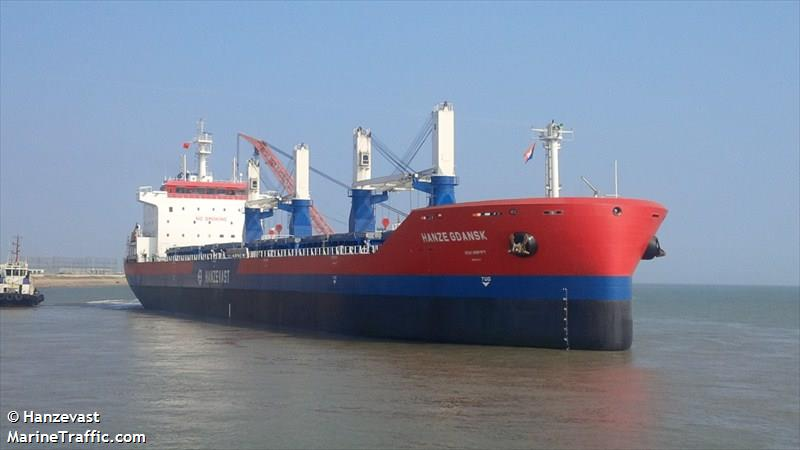
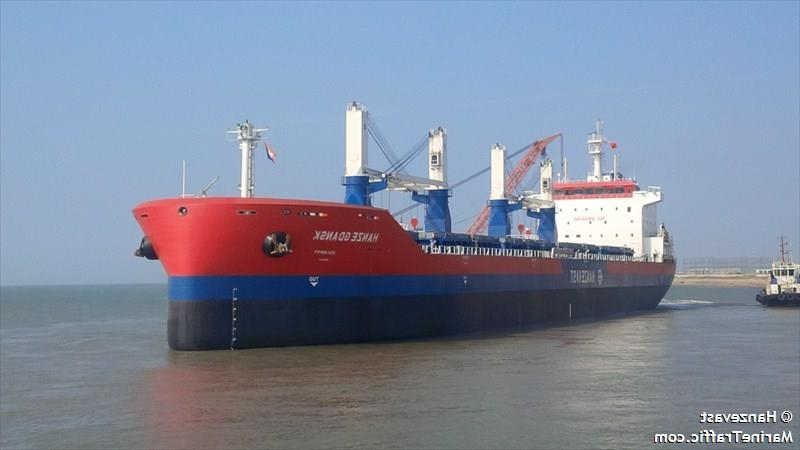
Mid version.

diff --git a/TSQL/TSQL/MainWindow.xaml b/TSQL/TSQL/MainWindow.xaml
@@ -5,47 +5,201 @@
         xmlns:mc="http://schemas.openxmlformats.org/markup-compatibility/2006"
         xmlns:local="clr-namespace:TSQL"
         mc:Ignorable="d"
-        Title="MainWindow" Height="450" Width="800">
+        Title="GDAŃSK - Nowy Port" Height="450" Width="800" Background="#FFB1C4DE" ResizeMode="NoResize">
     <Window.Resources>
         <BitmapImage x:Key="VeselBmp" UriSource="vessel.jpg"/>
+        <BitmapImage x:Key="VeselBackBmp" UriSource="ship.jpg"/>
+        <!--<x:Array Type="BitmapImage" x:Key="BitmapTab" xmlns:x="http://schemas.microsoft.com/winfx/2006/xaml" xmlns:sys="clr-namespace:System;assembly=mscorlib">
+            <BitmapImage UriSource="vessel.jpg"/>
+        </x:Array>
+        <Image x:Key="VeselImg" Source="vessel.jpg"/>
+        <x:Array Type="Image" x:Key="ImageTab">
+            <Image Source="vessel.jpg"/>
+        </x:Array>-->
+        <local:LeftMarginConverter x:Key="LeftMarginConverter" />
+        <local:OpacityConverter x:Key="OpacityConverter" />
+        <!--<local:LeftMarginBackConverter x:Key="LeftMarginBackConverter" />-->
     </Window.Resources>
-    <!--<Grid Margin="0,1,0,-1">-->
-    <!--<DataGrid Name="g1" AutoGenerateColumns="false">
+    <Grid Margin="1,1,1,1">
+        <!--<DataGrid Name="g1" AutoGenerateColumns="false">
             <DataGrid.Columns>
                 <DataGridTextColumn Binding="{Binding Id}" Header="Id" Width="100"/>
             </DataGrid.Columns>
         </DataGrid>-->
-    <!--</Grid>-->
-    <!--<StackPanel>
-        <Slider IsSnapToTickEnabled="true" TickFrequency="5" Name="Percent" Minimum="0" Maximum="100"/>
-        <TextBox Name="PercentText" Width="50" Text="{Binding ElementName=Percent, Path=Value, Mode=TwoWay}"/>
-    </StackPanel>-->
-    <Grid Margin="1,1,1,1">
-        <StackPanel>
-            <Slider IsSnapToTickEnabled="true" TickFrequency="0.1" Name="Percent" Minimum="0" Maximum="1"/>
-            <TextBox Name="PercentText" Width="50" Text="{Binding ElementName=Percent, Path=Value, Mode=TwoWay}"/>
-            <Button Name="DayBtn" Width="100" Height="30">
-                <Button.Triggers>
-                    <EventTrigger RoutedEvent="Button.MouseEnter">
-                        <BeginStoryboard>
-                            <Storyboard>
-                                <DoubleAnimation
+        <Viewport3D Margin="{Binding ElementName=Percent, Path=Value, Converter={StaticResource LeftMarginConverter}}">
+            <ModelVisual3D>
+                <ModelVisual3D.Content>
+                    <Model3DGroup>
+                        <!-- Lights -->
+                        <AmbientLight Color="White" />
+
+                        <!-- The image -->
+                        <GeometryModel3D>
+                            <GeometryModel3D.Geometry>
+                                <MeshGeometry3D
+                            Positions="0,-1,0 2,-1,0 2,1,0 0,1,0"
+                            TriangleIndices="0,1,2 2,3,0"
+                            TextureCoordinates="0,1 1,1 1,0 0,0"
+                        >
+                                </MeshGeometry3D>
+                            </GeometryModel3D.Geometry>
+                            <GeometryModel3D.Material>
+                                <DiffuseMaterial x:Name="texture">
+                                    <DiffuseMaterial.Brush>
+                                        <ImageBrush ImageSource="vessel.jpg"/>
+                                    </DiffuseMaterial.Brush>
+                                </DiffuseMaterial>
+                            </GeometryModel3D.Material>
+                            <GeometryModel3D.Transform>
+                                <RotateTransform3D>
+                                    <RotateTransform3D.Rotation>
+                                        <AxisAngleRotation3D Axis="0,1,0" Angle="{Binding ElementName=Percent, Path=Value}"/>
+                                    </RotateTransform3D.Rotation>
+                                </RotateTransform3D>
+                            </GeometryModel3D.Transform>
+                        </GeometryModel3D>
+                    </Model3DGroup>
+                </ModelVisual3D.Content>
+            </ModelVisual3D>
+
+            <Viewport3D.Camera>
+                <PerspectiveCamera
+            Position = "0, 0, 3.5"
+            LookDirection = "0, 0, -1"
+            UpDirection = "0, 1, 0"
+            FieldOfView = "60">
+                </PerspectiveCamera>
+            </Viewport3D.Camera>
+        </Viewport3D>
+        <Viewport3D>
+            <ModelVisual3D>
+                <ModelVisual3D.Content>
+                    <Model3DGroup>
+                        <!-- Lights -->
+                        <AmbientLight Color="White" />
+
+                        <!-- The image -->
+                        <GeometryModel3D>
+                            <GeometryModel3D.Geometry>
+                                <MeshGeometry3D
+                            Positions="0,-1,0 2,-1,0 2,1,0 0,1,0"
+                            TriangleIndices="0,1,2 2,3,0"
+                            TextureCoordinates="0,1 1,1 1,0 0,0"
+                        >
+                                </MeshGeometry3D>
+                            </GeometryModel3D.Geometry>
+                            <GeometryModel3D.Material>
+                                <DiffuseMaterial>
+                                    <DiffuseMaterial.Brush>
+                                        <ImageBrush ImageSource="{StaticResource VeselBackBmp}"/>
+                                    </DiffuseMaterial.Brush>
+                                </DiffuseMaterial>
+                            </GeometryModel3D.Material>
+                            <GeometryModel3D.Transform>
+                                <RotateTransform3D>
+                                    <RotateTransform3D.Rotation>
+                                        <AxisAngleRotation3D Axis="0,1,0" Angle="{Binding ElementName=PercentBack, Path=Value}"/>
+                                    </RotateTransform3D.Rotation>
+                                </RotateTransform3D>
+                            </GeometryModel3D.Transform>
+                        </GeometryModel3D>
+                    </Model3DGroup>
+                </ModelVisual3D.Content>
+            </ModelVisual3D>
+
+            <Viewport3D.Camera>
+                <PerspectiveCamera
+            Position = "0, 0, 3.5"
+            LookDirection = "0, 0, -1"
+            UpDirection = "0, 1, 0"
+            FieldOfView = "60">
+                </PerspectiveCamera>
+            </Viewport3D.Camera>
+        </Viewport3D>
+        <Slider Visibility="Hidden" IsSnapToTickEnabled="true" TickFrequency="0.1" Name="Percent" Minimum="0" Maximum="90"/>
+        <Slider Visibility="Hidden" Margin="0,100,0,0" Value="0" IsSnapToTickEnabled="true" TickFrequency="0.1" Name="PercentBack" Minimum="0" Maximum="90"/>
+        <TextBox Name="PercentText" Width="1" Text="{Binding ElementName=Percent, Path=Value, Mode=TwoWay}"/>
+        <Button Visibility="Hidden" Name="DayBtn" Width="100" Height="30">
+            Animate
+            <Button.Triggers>
+                <EventTrigger RoutedEvent="Button.Click">
+                    <BeginStoryboard>
+                        <Storyboard>
+                            <DoubleAnimation
                                     Storyboard.TargetName="Percent"
                                     Storyboard.TargetProperty="Value"
-                                    From="0" To="1" Duration="0:0:5"/>
-                            </Storyboard>
-                        </BeginStoryboard>
-                    </EventTrigger>
-                </Button.Triggers>
-            </Button>
-            <!--<Image Margin="0,0,0,0" Source="vessel.jpg" Opacity="{Binding ElementName=Percent, Path=Value}"/>-->
-            <Image Margin="0,0,0,0" Source="{StaticResource VeselBmp}" Opacity="{Binding ElementName=Percent, Path=Value}"/>
-            <Label>
-                <AccessText TextWrapping="WrapWithOverflow">
-                    Description of the Vessel
-    Formating in style
-                </AccessText>
-            </Label>
-        </StackPanel>
+                                    From="0" To="90" Duration="0:0:10"/>
+                            <DoubleAnimation
+                                    Storyboard.TargetName="PercentBack"
+                                    Storyboard.TargetProperty="Value"
+                                    From="90" To="0" Duration="0:0:10"/>
+                        </Storyboard>
+                    </BeginStoryboard>
+                </EventTrigger>
+            </Button.Triggers>
+        </Button>
+        <Button Visibility="Hidden" Name="NightBtn" Width="50" Height="30">
+            ReAnimate
+            <Button.Triggers>
+                <EventTrigger RoutedEvent="Button.Click">
+                    <BeginStoryboard>
+                        <Storyboard>
+                            <DoubleAnimation
+                                    Storyboard.TargetName="Percent"
+                                    Storyboard.TargetProperty="Value"
+                                    From="90" To="0" Duration="0:0:10"/>
+                            <DoubleAnimation
+                                    Storyboard.TargetName="PercentBack"
+                                    Storyboard.TargetProperty="Value"
+                                    From="0" To="90" Duration="0:0:10"/>
+                        </Storyboard>
+                    </BeginStoryboard>
+                </EventTrigger>
+            </Button.Triggers>
+        </Button>
+        <Label Margin="20,50,0,0" Name="ShipName" FontSize="14">
+            Nazwa
+        </Label>
+        <Label Margin="20,95,0,0" Name="ShipTonnage" FontSize="14">
+            Ładowność
+        </Label>
+        <Label Margin="20,140,0,0" Name="ShipLength" FontSize="14">
+            Długość
+        </Label>
+        <Label Margin="20,185,0,0" Name="ShipWidth" FontSize="14">
+            Szerokość
+        </Label>
+        <Label Margin="20,230,0,0" Name="ShipSpeed" FontSize="14">
+            Prędkość
+        </Label>
+        <Label Margin="20,275,0,0" Name="ShipOwner" FontSize="14">
+            Armator
+        </Label>
+        <Label Margin="20,320,0,0" Name="ShipYear" FontSize="14">
+            Rok budowy
+        </Label>
+        <Label Margin="120,50,410,326" Name="ShipNameValue" FontSize="14" FontWeight="Bold" Opacity="{Binding ElementName=Percent, Path=Value, Converter={StaticResource OpacityConverter}}">
+            <TextBlock TextWrapping="WrapWithOverflow">
+            NOVA STAR
+            </TextBlock>
+        </Label>
+        <Label Margin="120,95,0,0" Name="ShipTonnageValue" FontSize="14" FontWeight="Bold" Opacity="{Binding ElementName=Percent, Path=Value, Converter={StaticResource OpacityConverter}}">
+            27744
+        </Label>
+        <Label Margin="120,140,0,0" Name="ShipLengthValue" FontSize="14" FontWeight="Bold" Opacity="{Binding ElementName=Percent, Path=Value, Converter={StaticResource OpacityConverter}}">
+            161
+        </Label>
+        <Label Margin="120,185,0,0" Name="ShipWidthValue" FontSize="14" FontWeight="Bold" Opacity="{Binding ElementName=Percent, Path=Value, Converter={StaticResource OpacityConverter}}">
+            26.6
+        </Label>
+        <Label Margin="120,230,0,0" Name="ShipSpeedValue" FontSize="14" FontWeight="Bold" Opacity="{Binding ElementName=Percent, Path=Value, Converter={StaticResource OpacityConverter}}">
+            17.2
+        </Label>
+        <Label Margin="120,275,0,0" Name="ShipOwnerValue" FontSize="14" FontWeight="Bold" Opacity="{Binding ElementName=Percent, Path=Value, Converter={StaticResource OpacityConverter}}">
+            Bahamas
+        </Label>
+        <Label Margin="120,320,0,0" Name="ShipYearValue" FontSize="14" FontWeight="Bold" Opacity="{Binding ElementName=Percent, Path=Value, Converter={StaticResource OpacityConverter}}">
+            2011
+        </Label>
     </Grid>
 </Window>

diff --git a/TSQL/TSQL/MainWindow.xaml.cs b/TSQL/TSQL/MainWindow.xaml.cs
@@ -1,31 +1,60 @@
 using System;
-using System.Collections.Generic;
-using System.Configuration;
-using System.Data;
-using System.Data.SqlClient;
-using System.Linq;
-using System.Text;
-using System.Threading.Tasks;
 using System.Windows;
-using System.Windows.Controls;
+using System.Windows.Controls.Primitives;
 using System.Windows.Data;
-using System.Windows.Documents;
-using System.Windows.Input;
 using System.Windows.Media;
 using System.Windows.Media.Imaging;
-using System.Windows.Navigation;
-using System.Windows.Shapes;
+using System.Windows.Threading;
 
-namespace TSQL {
+namespace TSQL
+{
     /// <summary>
     /// Interaction logic for MainWindow.xaml
     /// </summary>
     public partial class MainWindow : Window {
+
+        const int INTERVAL_COUNT = 5;
+
+        int CurrentInterval = 0;
+
         public MainWindow() {
             InitializeComponent();
 
             BindDataGrid();
 
+            DispatcherTimer dtClockTime = new DispatcherTimer();
+
+            dtClockTime.Interval = new TimeSpan(0, 0, 1);
+            dtClockTime.Tick += dtClockTime_Tick;
+
+            dtClockTime.Start();
+        }
+
+        private void dtClockTime_Tick(object sender, EventArgs e)
+        {
+            if (Percent.Value == 0) {
+                CurrentInterval++;
+                if (CurrentInterval == INTERVAL_COUNT)
+                {
+                    CurrentInterval = 0;
+                    // get bitmap from web url (database) from web getting while setting the date (caching)
+                    BitmapImage bmi = new BitmapImage();
+                    bmi.BeginInit();
+                    bmi.StreamSource = Application.GetResourceStream(new Uri("/ship.jpg", UriKind.Relative)).Stream;
+                    bmi.EndInit();
+                    // testure is identifier from xaml
+                    texture.Brush = new ImageBrush(bmi)
+                    { ViewportUnits = BrushMappingMode.Absolute };
+                    DayBtn.RaiseEvent(new RoutedEventArgs(ButtonBase.ClickEvent));
+                }
+            } if (Percent.Value == 90) {
+                CurrentInterval++;
+                if (CurrentInterval == INTERVAL_COUNT)
+                {
+                    CurrentInterval = 0;
+                    NightBtn.RaiseEvent(new RoutedEventArgs(ButtonBase.ClickEvent));
+                }
+            }
         }
 
         private void BindDataGrid() {
@@ -42,4 +71,51 @@ namespace TSQL {
         }
 
     }
+
+    public class LeftMarginConverter : IValueConverter
+    {
+
+        const double HEURISTIC_OFFSET = 4.3;
+
+        #region IValueConverter Members
+
+        public object Convert(object value, Type targetType, object parameter, System.Globalization.CultureInfo culture)
+        {
+            double sliderValue = (double)value;
+            return new Thickness(HEURISTIC_OFFSET * sliderValue, 0, -HEURISTIC_OFFSET * sliderValue, 0);
+        }
+
+        public object ConvertBack(object value, Type targetType, object parameter, System.Globalization.CultureInfo culture)
+        {
+            throw new Exception("The method or operation is not implemented.");
+        }
+
+        #endregion
+    }
+
+    public class OpacityConverter : IValueConverter
+    {
+
+        #region IValueConverter Members
+
+        public object Convert(object value, Type targetType, object parameter, System.Globalization.CultureInfo culture)
+        {
+            double sliderValue = (double)value;
+            if (sliderValue <= 45)
+            {
+                return ((45 - sliderValue) / 45);
+            } else
+            {
+                return ((sliderValue - 45) / 45);
+            }
+        }
+
+        public object ConvertBack(object value, Type targetType, object parameter, System.Globalization.CultureInfo culture)
+        {
+            throw new Exception("The method or operation is not implemented.");
+        }
+
+        #endregion
+    }
+
 }
